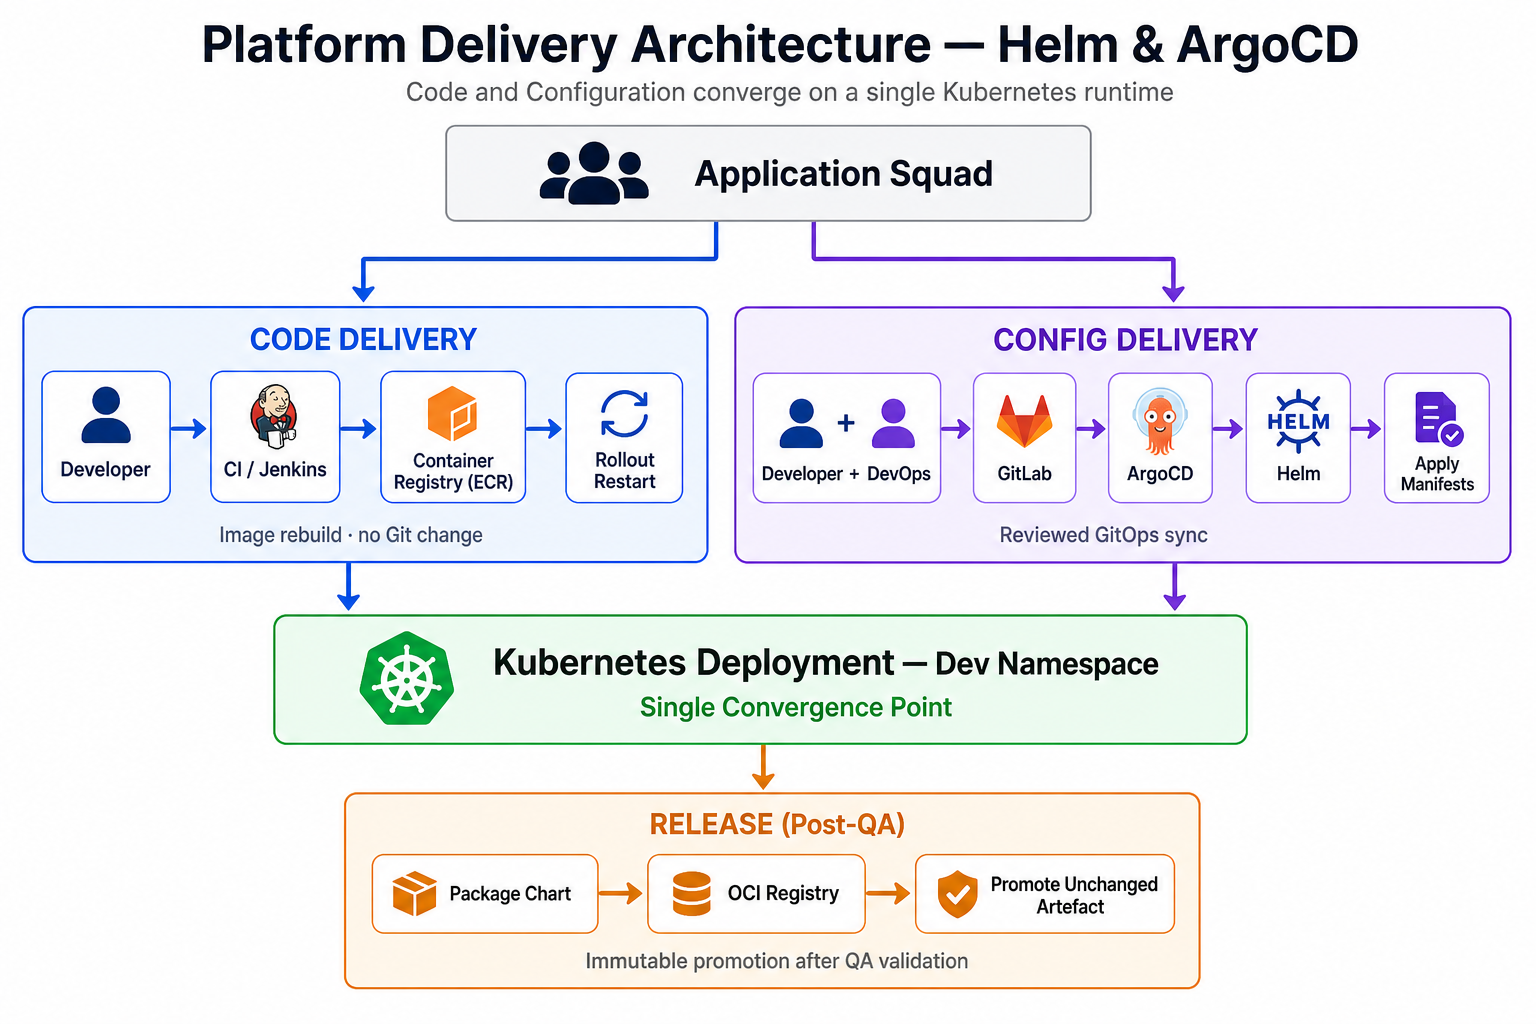
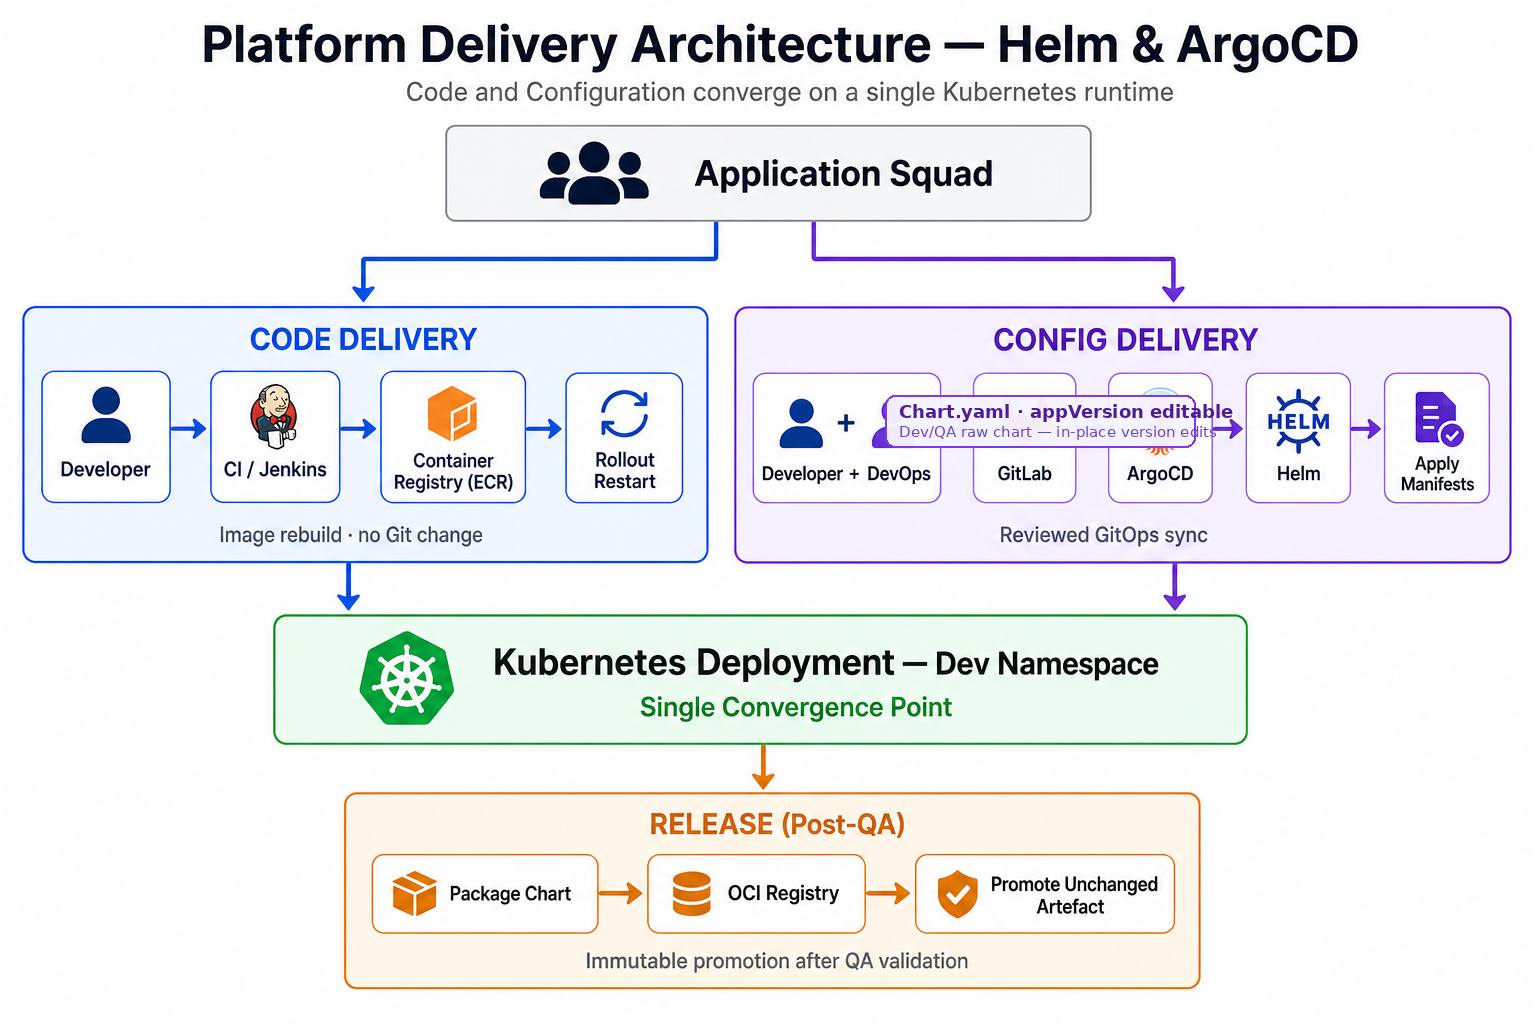
Document editable appVersion in Dev/QA config path
Add Chart.yaml appVersion callout to the CXO architecture diagram and
expand SA_Guild_Architecture.md with editable version fields, examples,
and config-path labels. Include script to reproduce diagram overlay.

Changed region(s): [[0.5625, 0.375, 0.8125, 0.4375]]

diff --git a/scripts/update_diagram_appversion.py b/scripts/update_diagram_appversion.py
@@ -1,0 +1,31 @@
+"""Add editable appVersion callout to the CXO architecture diagram."""
+
+from PIL import Image, ImageDraw, ImageFont
+
+IMAGE_PATH = "docs/architecture/SA_Guild_Architecture_Diagram.png"
+
+im = Image.open(IMAGE_PATH).convert("RGBA")
+overlay = Image.new("RGBA", im.size, (0, 0, 0, 0))
+draw = ImageDraw.Draw(overlay)
+
+# Badge placement — Config Delivery column, below GitLab step
+x, y, w, h = 885, 395, 310, 52
+radius = 10
+fill = (245, 243, 255, 245)
+stroke = (124, 58, 237, 255)
+
+draw.rounded_rectangle((x, y, x + w, y + h), radius=radius, fill=fill, outline=stroke, width=2)
+
+try:
+    font = ImageFont.truetype("/usr/share/fonts/truetype/dejavu/DejaVuSans-Bold.ttf", 18)
+    font_small = ImageFont.truetype("/usr/share/fonts/truetype/dejavu/DejaVuSans.ttf", 15)
+except OSError:
+    font = ImageFont.load_default()
+    font_small = font
+
+draw.text((x + 14, y + 6), "Chart.yaml · appVersion editable", fill=(76, 29, 149, 255), font=font)
+draw.text((x + 14, y + 28), "Dev/QA raw chart — in-place version edits", fill=(107, 70, 193, 255), font=font_small)
+
+im = Image.alpha_composite(im, overlay)
+im.convert("RGB").save(IMAGE_PATH, quality=95)
+print(f"Updated {IMAGE_PATH}")

diff --git a/SA_Guild_Architecture.md b/SA_Guild_Architecture.md
@@ -28,7 +28,7 @@ flowchart TB
 
     subgraph CONFIG_DOMAIN["CONFIG DOMAIN — ArgoCD owns sync"]
         direction TB
-        GITLAB["GitLab — Helm Chart Repo<br/><i>my-app-deploy</i>"]
+        GITLAB["GitLab — Helm Chart Repo<br/><i>my-app-deploy</i><br/>appVersion editable"]
         ARGO["ArgoCD"]
         HELM["Helm Render Engine"]
     end
@@ -45,7 +45,7 @@ flowchart TB
     JENKINS -->|"Build image<br/>Push tags"| ECR
     JENKINS -->|"Restart Deployment<br/>(no Git change)"| DEPLOY
 
-    DEV -->|"Edit chart / values"| GITLAB
+    DEV -->|"Edit chart / values<br/>appVersion · image tag"| GITLAB
     DEVOPS -->|"Edit chart / values<br/>Reviewed diff"| GITLAB
     GITLAB -->|"Watch repo<br/>targetRevision: develop"| ARGO
     ARGO --> HELM
@@ -85,7 +85,7 @@ flowchart LR
 
     subgraph CONFIG_PATH["🟣 CONFIG PATH"]
         direction TB
-        G1["Developer / DevOps<br/>edit chart or values"]
+        G1["Developer / DevOps<br/>edit chart · appVersion · values"]
         G2["GitLab review + diff"]
         G3["ArgoCD detects drift"]
         G4["Helm render<br/>values-dev.yaml merge"]
@@ -219,7 +219,7 @@ sequenceDiagram
 flowchart TD
     ROOT["my-app-deploy/"]
 
-    ROOT --> CHART["Chart.yaml"]
+    ROOT --> CHART["Chart.yaml<br/>version · appVersion<br/><i>editable in Dev/QA</i>"]
     ROOT --> VALUES["values.yaml"]
     ROOT --> VALUES_DEV["values-dev.yaml<br/><i>Dev overlay</i>"]
     ROOT --> FILES["files/"]
@@ -240,6 +240,38 @@ flowchart TD
     class CHART,VALUES,VALUES_DEV,PROPS,DEPLOY_YAML,SVC,CM file
     class ARGO watcher
 ```
+
+### Editable App Version (Dev/QA)
+
+During Dev and QA, the Helm chart stays as **raw, editable source files** in GitLab — not a packaged `.tgz`. ArgoCD watches `repoURL + path` and renders the chart directly, so version fields can be changed in place and reviewed through a normal Git diff.
+
+| Field | Where | Editable in Dev/QA? | Purpose |
+|-------|-------|---------------------|---------|
+| `appVersion` | `Chart.yaml` | **Yes** | Declares the application release label (metadata + labels) |
+| `version` | `Chart.yaml` | **Yes** | Chart packaging version while iterating in Git |
+| `image.tag` | `values-dev.yaml` | **Yes** | Pin or override the container image tag for the environment |
+| Packaged chart | OCI registry | **No** (post-QA) | Immutable artefact promoted unchanged after QA |
+
+**Example — editable fields in Dev/QA**
+
+```yaml
+# Chart.yaml — appVersion is editable; bump here for config-path releases
+apiVersion: v2
+name: my-app
+description: SA Guild sample deploy chart
+type: application
+version: 0.3.0        # chart version — editable during iteration
+appVersion: "2.4.1"   # app version — editable in Dev/QA raw chart
+```
+
+```yaml
+# values-dev.yaml — image tag override (config path)
+image:
+  repository: 123456789012.dkr.ecr.eu-west-1.amazonaws.com/my-app
+  tag: "2.4.1"        # editable — ArgoCD sync applies on merge
+```
+
+**Boundary:** The **code path** refreshes running pods via Jenkins rollout restart without a Git change. The **config path** owns `appVersion`, chart `version`, and values overlays — including image tag when declared in Git.
 
 ### ArgoCD Application Contract (Minimum Wiring)
 
@@ -267,7 +299,7 @@ syncPolicy:
 ```mermaid
 flowchart LR
     subgraph DEV_QA["DEV / QA — Flexible iteration"]
-        RAW["Raw Helm chart<br/>in GitLab"]
+        RAW["Raw Helm chart<br/>appVersion editable"]
         ARGO_DEV["ArgoCD watches<br/>editable source"]
         QA["QA validation"]
         RAW --> ARGO_DEV --> QA
@@ -367,7 +399,7 @@ flowchart TB
 | **No automation collision** | `selfHeal: false` on ArgoCD Application |
 | **Traceable releases** | Versioned charts · commit backup tags |
 | **Safe rollback** | Revert chart version pointer (config) or previous image tag (code) |
-| **Dev/QA flexibility** | Raw editable charts watched by ArgoCD |
+| **Dev/QA flexibility** | Raw editable charts — `appVersion` and values in GitLab |
 | **Release immutability** | Package to `.tgz` → push to OCI only after QA pass |
 
 ---
